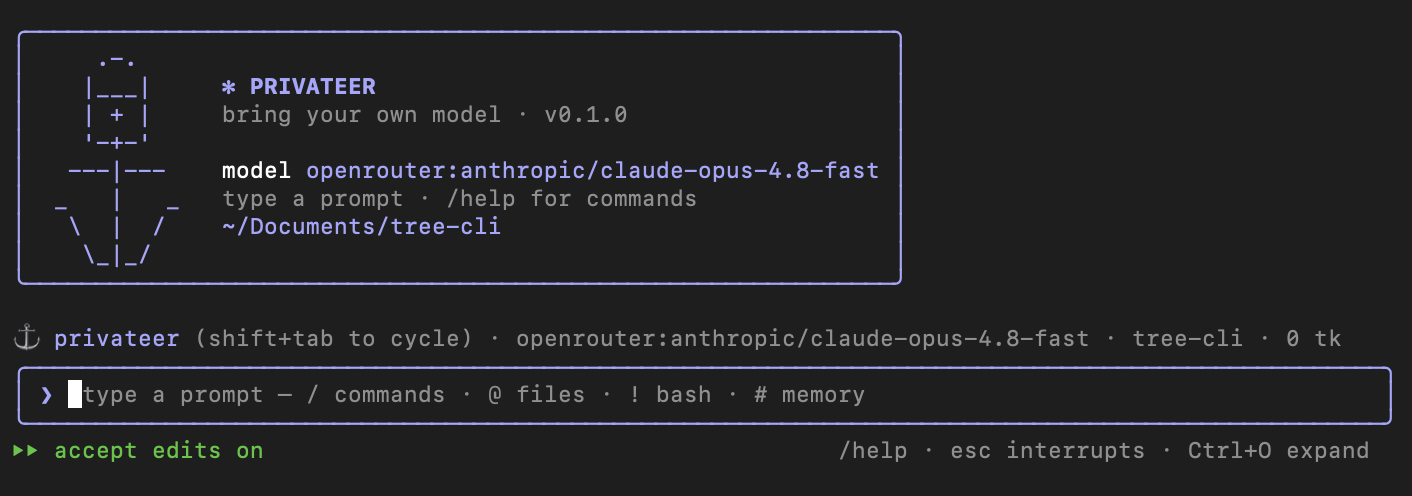
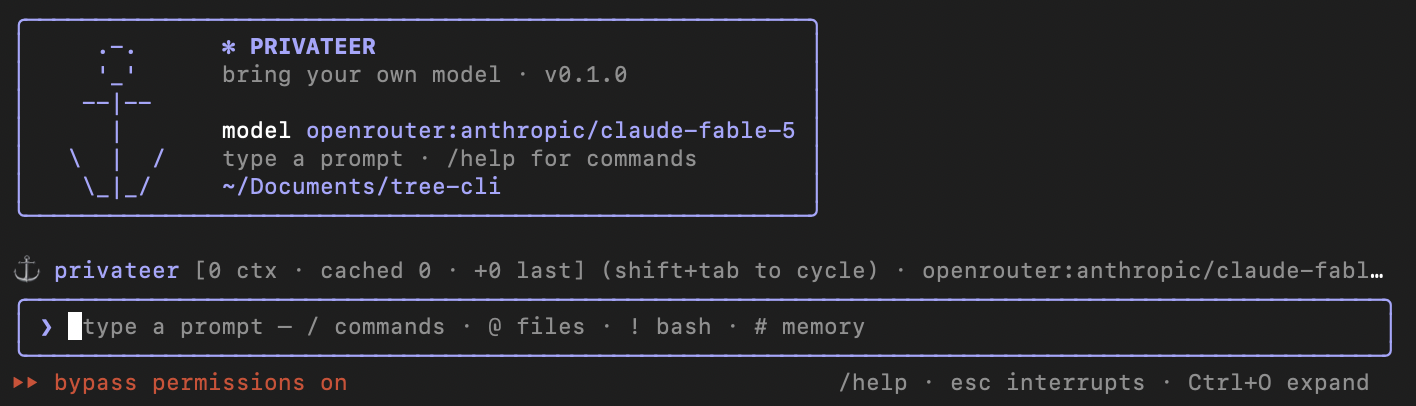
Update README screenshot and /context reporting

diff --git a/src/commands/registry.ts b/src/commands/registry.ts
@@ -50,6 +50,9 @@ export interface CommandContext {
   modelSpec: string;
   mode: PermissionMode;
   usage: UsageTotals;
+  // Current context-window occupancy (estimated tokens in live history vs budget).
+  // Distinct from `usage`, which is cumulative billed tokens across the whole session.
+  context?: { used: number; budget: number };
   cwd: string;
   todos: TodoItem[];
   customCommands?: CustomCommand[];
@@ -218,17 +221,22 @@ const COMMANDS: CommandDef[] = [
     run: (_args, ctx) => {
       const u = ctx.usage;
       const budget = ctx.config.contextBudget;
-      const pct = budget ? Math.round((u.totalTokens / budget) * 100) : 0;
+      // Window occupancy is the size of the live history, NOT cumulative billed
+      // tokens — the agentic loop re-sends the prompt each step, so `usage.totalTokens`
+      // is many times the window and would report a meaningless % here.
+      const used = ctx.context?.used ?? 0;
+      const pct = budget ? Math.round((used / budget) * 100) : 0;
       const compactAt = Math.round(budget * ctx.config.compactRatio);
       const billed = effectiveTokens(u);
       return {
         type: "notice",
         text:
           `Context window:\n` +
-          `  used: ${u.totalTokens} tokens (${pct}% of ${budget})\n` +
+          `  used: ${used} tokens (${pct}% of ${budget})\n` +
+          `  auto-compact at ~${compactAt} tokens (ratio ${ctx.config.compactRatio})\n` +
+          `Session billed (cumulative, all turns):\n` +
           `  in: ${u.inputTokens}  out: ${u.outputTokens}  cached: ${u.cachedInputTokens}\n` +
-          `  billed (est, cache-discounted): ~${billed} tokens\n` +
-          `  auto-compact at ~${compactAt} tokens (ratio ${ctx.config.compactRatio})`,
+          `  total: ${u.totalTokens}  billed (est, cache-discounted): ~${billed} tokens`,
       };
     },
   },

diff --git a/src/components/App.tsx b/src/components/App.tsx
@@ -386,7 +386,7 @@ export function App({
   const append = (...entries: Entry[]) => setCommitted((c) => [...c, ...entries]);
 
   function handleCommand(raw: string): boolean {
-    const res = runCommand(raw, { config, modelSpec, mode, usage, cwd, todos, customCommands });
+    const res = runCommand(raw, { config, modelSpec, mode, usage, context, cwd, todos, customCommands });
     if (!res) return false;
     append({ kind: "user", text: raw });
     switch (res.type) {